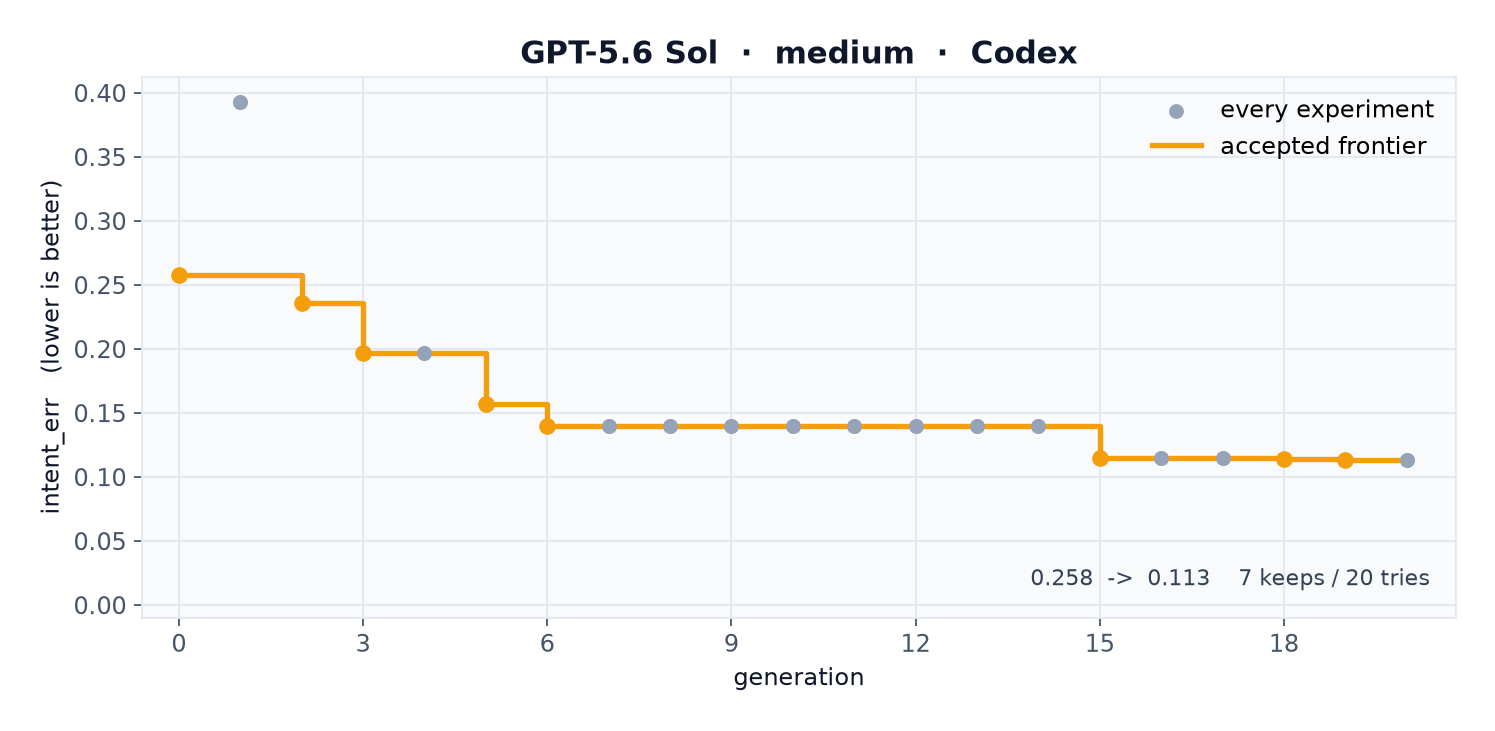
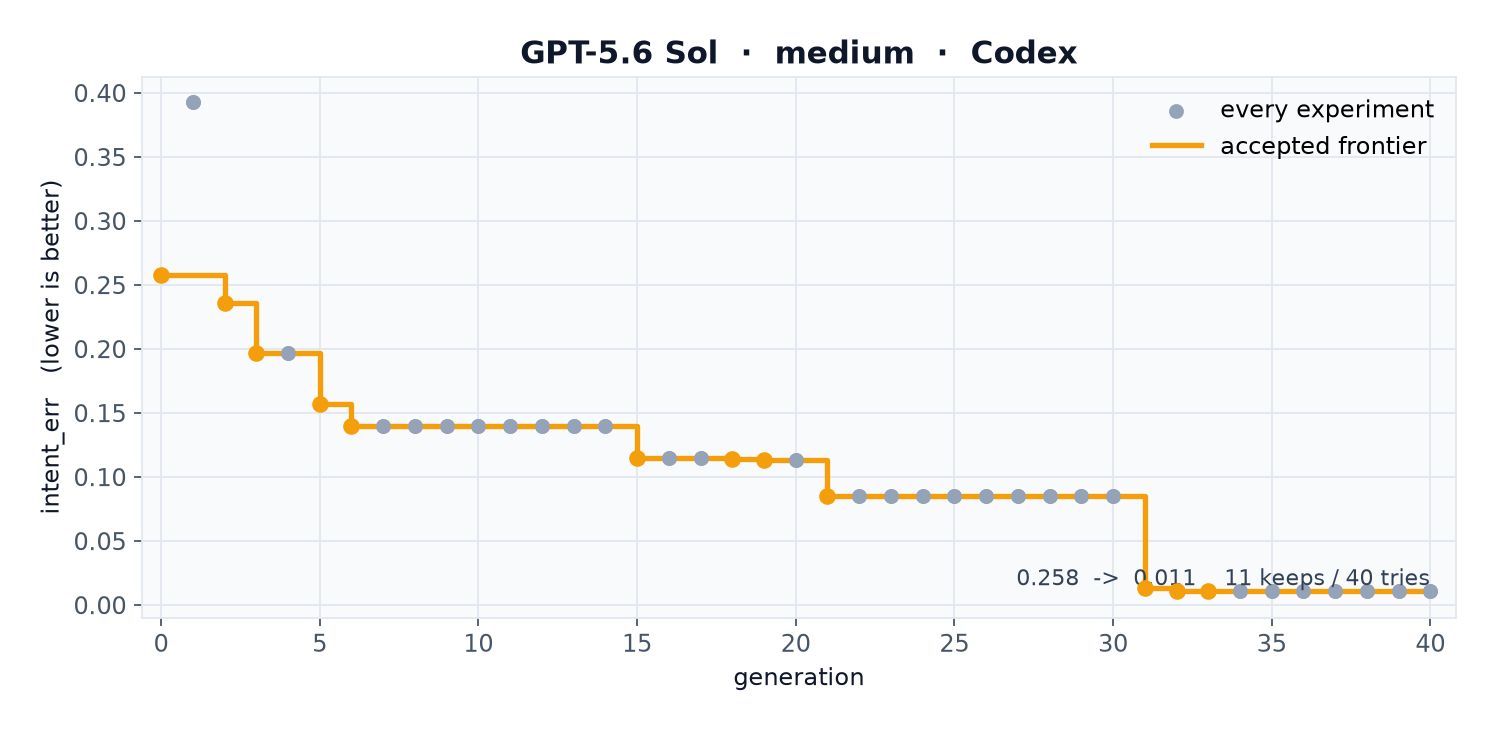
Continue Sol medium for 20 more generations
From the gen-19 frontier (0.113) Sol recovered the tube, both bosses,
the slot, and the fillet. Final intent_err 0.011 after 40 gens / 11
keeps. The race chart marks the original 20-gen budget.

diff --git a/plots.py b/plots.py
@@ -175,9 +175,19 @@ def write_race(runs: list[tuple[str, list[Row], str]], out: Path) -> None:
     ax.set_ylabel("intent_err   (lower is better)")
     ax.set_title("Recovering design intent — accepted frontier vs every attempt")
     peak = max(r.intent_err for _, rows, _ in runs for r in rows)
+    xmax = max(r.gen for _, rows, _ in runs for r in rows)
     ax.set_ylim(-0.01, max(0.30, peak + 0.04))
-    ax.set_xlim(-0.6, max(r.gen for _, rows, _ in runs for r in rows) + 0.8)
+    ax.set_xlim(-0.6, xmax + 0.8)
     ax.xaxis.set_major_locator(plt.MaxNLocator(integer=True))
+    if xmax > 20:
+        ax.axvline(20, color="#94A3B8", ls="--", lw=1.0, zorder=1)
+        ax.text(
+            20.2,
+            ax.get_ylim()[1] * 0.92,
+            "20-gen budget",
+            color="#64748B",
+            fontsize=9,
+        )
     ax.legend(loc="upper right", fontsize=10)
     fig.tight_layout()
     out.parent.mkdir(parents=True, exist_ok=True)

diff --git a/README.md b/README.md
@@ -8,16 +8,16 @@ The question is not “can you match this one STEP file?” It is “did you rec
 
 ![accepted frontier](plots/race.png)
 
-Same starting solver. Same twelve families. Same 20-generation budget. Four researchers.
+Same starting solver. Same twelve families. Same 20-generation budget. Four researchers. Sol then got 20 more generations from its gen-19 frontier — the dashed line on the chart is that budget.
 
-| Researcher | Harness | Final `intent_err` | Accepted steps | Solved at |
-|---|---|---:|---:|---|
-| **Grok 4.5** high | grok CLI | **0.000** | 14 | gen 15 |
-| **Gemini 3.7 Flash** high | Antigravity (`agy`) | **0.000** | 8 | gen 9 |
-| **GPT-5.6 Sol** medium | Codex | 0.113 | 7 | — |
-| **GPT-5.6 Terra** high | Codex | 0.134 | 4 | — |
+| Researcher | Harness | At gen 20 | Final | Keeps | Solved at |
+|---|---|---:|---:|---:|---|
+| **Grok 4.5** high | grok CLI | **0.000** | **0.000** | 14 | gen 15 |
+| **Gemini 3.7 Flash** high | Antigravity (`agy`) | **0.000** | **0.000** | 8 | gen 9 |
+| **GPT-5.6 Sol** medium | Codex | 0.113 | **0.011** | 11 / 40 | — |
+| **GPT-5.6 Terra** high | Codex | 0.134 | 0.134 | 4 | — |
 
-Gemini recovered the whole set in eight accepted steps. Grok got there too, with a longer staircase. Both Codex arms climbed partway: Sol (medium) finished ahead of Terra (high), 0.113 vs 0.134, by binding plate thickness and the two hole families. Neither recovered bosses.
+Gemini recovered the whole set in eight accepted steps. Grok got there too, with a longer staircase. At the shared 20-gen budget Sol was only a little ahead of Terra. The extra 20 is where Sol found the tube and the bosses — 0.113 → 0.011. The leftover is a slightly-wrong cylinder and a couple of unfinished hole families.
 
 ## The big picture
 
@@ -54,16 +54,17 @@ Keep if strictly lower. Equal or worse is a discard. Rejects stay in the log and
 
 ## The race
 
-Four coding-agent configurations. One hypothesized change per generation. 20 generations.
+Four coding-agent configurations. One hypothesized change per generation. Grok, Gemini, and Terra stopped at 20. Sol was resumed for 20 more.
 
 ![summary](plots/summary.png)
 
 | | Grok 4.5 | Gemini 3.7 Flash | GPT-5.6 Sol | GPT-5.6 Terra |
 |---|---:|---:|---:|---:|
 | Start | 0.258 | 0.258 | 0.258 | 0.258 |
-| End | **0.000** | **0.000** | 0.113 | 0.134 |
-| Keeps | 14 | 8 | 7 | 4 |
-| Discards | 6 | 12 | 13 | 16 |
+| At gen 20 | **0.000** | **0.000** | 0.113 | 0.134 |
+| Final | **0.000** | **0.000** | **0.011** | 0.134 |
+| Keeps | 14 | 8 | 11 | 4 |
+| Gens | 20 | 20 | 40 | 20 |
 | Effort | high | high | medium | high |
 
 Raw logs: [`examples/grok-4.5-high.tsv`](examples/grok-4.5-high.tsv) · [`examples/gemini-3.7-flash-high.tsv`](examples/gemini-3.7-flash-high.tsv) · [`examples/gpt-5.6-sol-medium.tsv`](examples/gpt-5.6-sol-medium.tsv) · [`examples/gpt-5.6-terra-high.tsv`](examples/gpt-5.6-terra-high.tsv)
@@ -72,7 +73,7 @@ Raw logs: [`examples/grok-4.5-high.tsv`](examples/grok-4.5-high.tsv) · [`exampl
 
 ![per-family error](plots/families.png)
 
-Grok and Gemini finished at zero on every family. Sol recovered the box and both hole plates, then stalled on bosses (centroid still wrong) and the tube. Terra missed those hole families and the bosses too. Same hill, different leftover error.
+Grok and Gemini finished at zero on every family. After the extra 20, Sol has the box, both holes, the tube, both bosses, and the slot. The leftover 0.011 is a slightly-wrong cylinder (0.097) plus thin misses on counterbore and the hole pair. Terra, at the original budget, still has the bosses almost untouched.
 
 That is the eval doing its job. A solver can look plausible on the observed member and still fail the held-out sizes.
 
@@ -86,7 +87,9 @@ That is the eval doing its job. A solver can look plausible on the observed memb
 
 ![grok progress](plots/progress-grok-4.5.png)
 
-**GPT-5.6 Sol** (medium) bound height, then width, then depth — one axis per keep — plus a cylinder, plate thickness, a centered hole, and an offset hole. Generation 1 made the score *worse* (0.39) and was discarded. The late keeps are the interesting ones: `thick` at gen 15, then the two hole families. Bosses and the tube never landed. Seven keeps, frontier 0.113.
+**GPT-5.6 Sol** (medium) bound height, then width, then depth — one axis per keep — plus a cylinder, plate thickness, a centered hole, and an offset hole. Generation 1 made the score *worse* (0.39) and was discarded. At gen 20 the frontier was 0.113.
+
+Then it was resumed. Gen 21 recovered the tube. Gen 31 recovered both boss families in one step (0.085 → 0.013). Slot and fillet followed. Chamfer, counterbore, and a 2×2 hole grid were tried under the wrong names and discarded. Eleven keeps in 40 tries, frontier 0.011.
 
 ![sol progress](plots/progress-gpt-5.6-sol.png)
 
@@ -126,6 +129,7 @@ make grok45    # grok CLI    · grok-4.5              · high
 make gemini    # antigravity · gemini-3.7-flash-high · high
 make terra     # Codex       · gpt-5.6-terra         · high
 make sol       # Codex       · gpt-5.6-sol           · medium
+make sol-more  # same workdir, 20 more gens (--resume)
 
 # Draw the race from examples/*.tsv
 python plots.py
